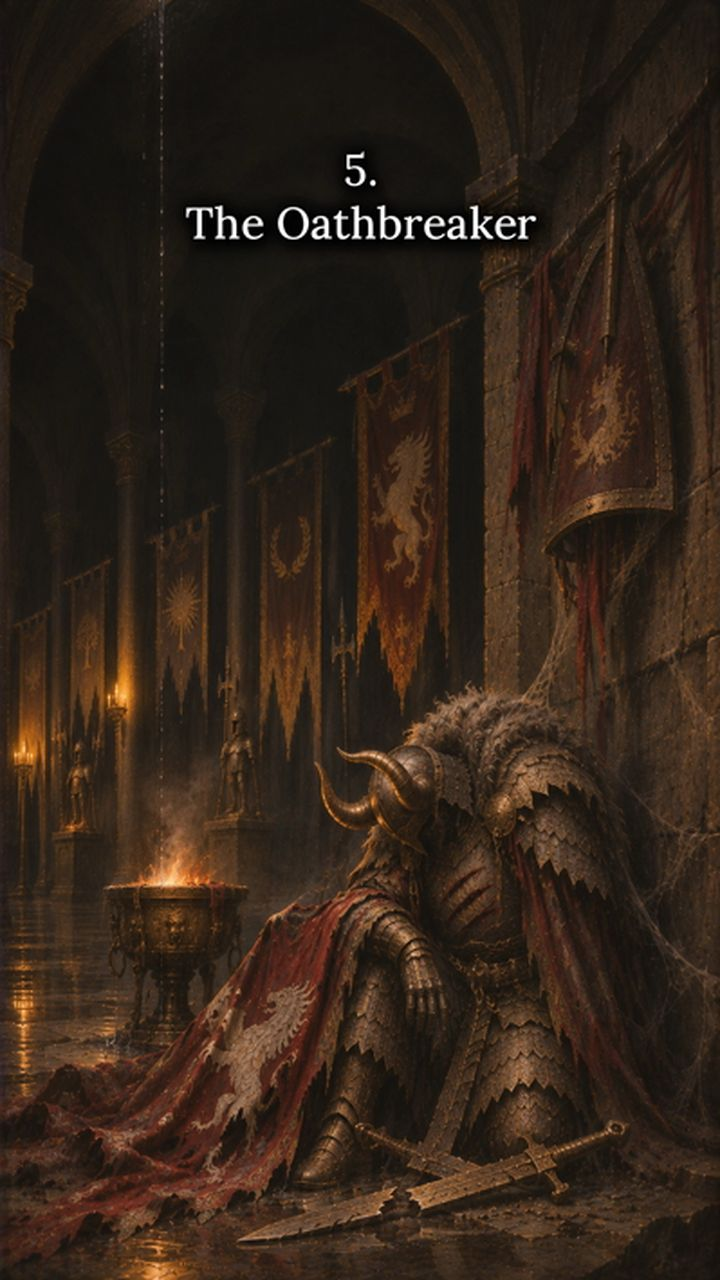
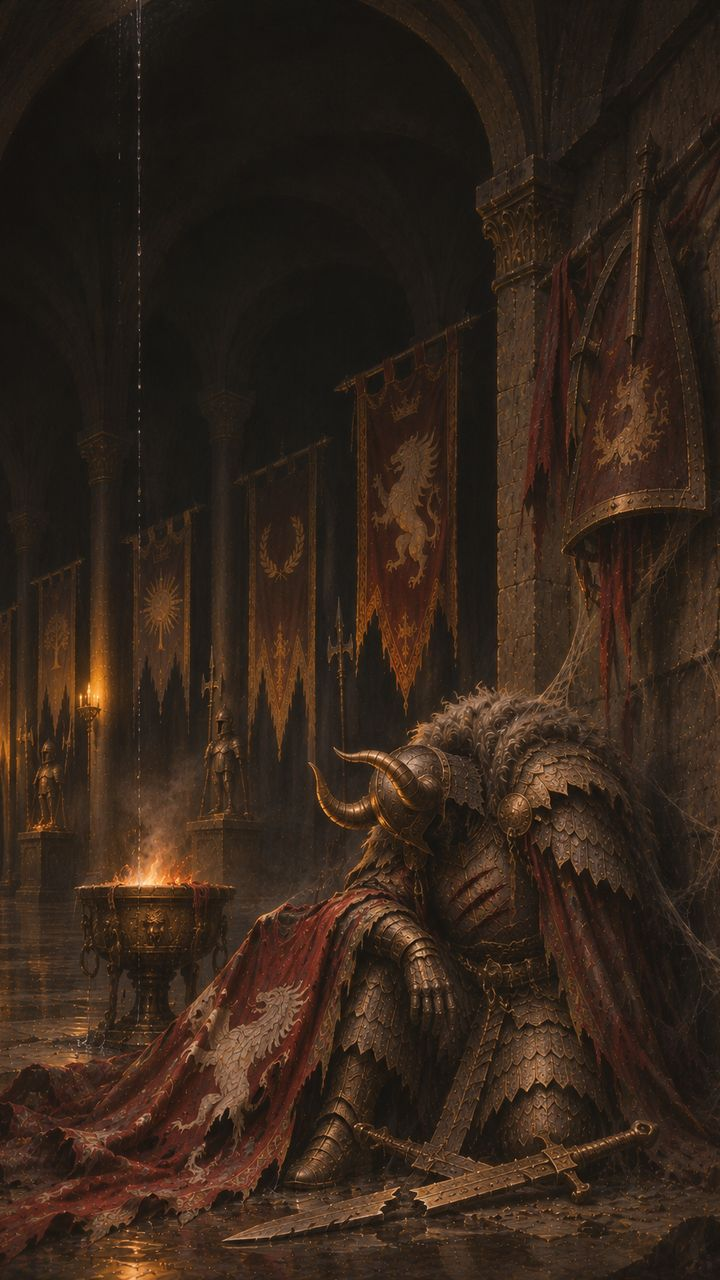
Retire Hollowmere; tree-to-tale transition (medallion lifts, golden vines grow, tale opens); remove last burned-in titles
Claude-Session: https://claude.ai/code/session_019SjQo4uPxatQMjpTgJHSEd

diff --git a/index.html b/index.html
@@ -292,6 +292,21 @@ button.pic:hover{transform:translateY(-3px);box-shadow:0 14px 30px rgba(0,0,0,.7
 .lb-next{right:10px;top:50%;transform:translateY(-50%)}
 .lb-x:hover,.lb-nav:hover{border-color:var(--gilt)}
 @media (max-width:720px){.lb{padding:56px 8px 16px}.lb-nav{top:auto;bottom:14px;transform:none}.lb-prev{left:calc(50% - 56px)}.lb-next{right:calc(50% - 56px)}.lb-fig img{max-height:calc(100vh - 170px)}}
+
+/* ---------- tree -> tale transition: the medallion lifts off the branch, golden roots grow out of it, the tale opens ---------- */
+.tx{position:fixed;inset:0;z-index:110;pointer-events:auto;overflow:hidden}
+.tx[hidden]{display:none}
+.tx .veil{position:absolute;inset:0;background:radial-gradient(circle at 50% 46%,color-mix(in srgb,var(--acc) 26%,#120c08) 0%,#0b0705 55%,#050302 100%);opacity:0}
+.tx svg.vines{position:absolute;inset:0;width:100%;height:100%;overflow:visible;filter:drop-shadow(0 0 3px color-mix(in srgb,var(--gilt-hi) 70%,transparent)) drop-shadow(0 0 10px var(--acc))}
+.tx svg.vines path{fill:none;stroke-linecap:round}
+.tx .disc{position:absolute;border-radius:50%;overflow:hidden;padding:5px;background:conic-gradient(from 200deg,var(--acc),var(--gilt-hi),var(--acc),#5b3d16,var(--acc));
+  box-shadow:0 0 0 1px rgba(0,0,0,.6),0 0 60px color-mix(in srgb,var(--acc) 60%,transparent),0 20px 50px rgba(0,0,0,.8)}
+.tx .disc img{width:100%;height:100%;border-radius:50%;object-fit:cover;object-position:50% 68%;border:2px solid #0d0805}
+.tx .cap{position:absolute;left:0;right:0;text-align:center;opacity:0;padding:0 20px}
+.tx .cap .k{font-family:var(--f-title);font-size:13px;letter-spacing:.42em;text-transform:uppercase;color:var(--acc)}
+.tx .cap .t{font-family:var(--f-display);font-weight:900;font-size:clamp(28px,6vw,54px);line-height:1.05;margin-top:8px;
+  background:linear-gradient(180deg,var(--gilt-hi) 10%,var(--gilt) 60%,#8a6526);-webkit-background-clip:text;background-clip:text;color:transparent;filter:drop-shadow(0 2px 0 rgba(0,0,0,.6))}
+.tx .spark{position:absolute;width:4px;height:4px;border-radius:50%;background:var(--gilt-hi);box-shadow:0 0 8px var(--gilt-hi),0 0 16px var(--acc)}
 </style>
 </head><body>
 
@@ -300,6 +315,7 @@ button.pic:hover{transform:translateY(-3px);box-shadow:0 14px 30px rgba(0,0,0,.7
 <div id="bd" class="backdrop" hidden aria-hidden="true"></div>
 <div id="band" class="owner-band" hidden>Owner preview — sealed tales are open to you only</div>
 <div id="app" class="wrap"></div>
+<div id="tx" class="tx" hidden aria-hidden="true"></div>
 <div id="lb" class="lb" hidden role="dialog" aria-modal="true" aria-label="Enlarged image">
   <button type="button" class="lb-x" data-lb="close" aria-label="Close">✕</button>
   <button type="button" class="lb-nav lb-prev" data-lb="prev" aria-label="Previous">‹</button>
@@ -329,7 +345,9 @@ button.pic:hover{transform:translateY(-3px);box-shadow:0 14px 30px rgba(0,0,0,.7
 /* ===== One-line publish switch: tales listed here are open to everyone. ===== */
 /* Tales open to everyone, in the order they were posted on Instagram. The tree grows in this order and numbers tales by it.
    Tales not listed are hidden from the public (the owner sees them at the top as drafts). */
-const POSTED = [1,2,4,8,9,10,5,3,13,11,12,6,15,17,7,20,22,23];
+const POSTED = [1,2,4,8,9,10,5,3,13,11,12,6,15,7,20,22,23];
+/* Never shown anywhere (tests, retired). */
+const HIDDEN = [17];
 
 const IG = "https://www.instagram.com/oldbladesociety/";
 const ACC = {1:"#c9a14a",2:"#d0603a",3:"#d8b45a",4:"#8fa37a",5:"#b2453a",6:"#c0703a",7:"#4f9a8a",8:"#c4572e",9:"#b88ac0",10:"#c9a14a",11:"#6fa0c8",12:"#b0503c",13:"#8c6aa8",14:"#d4b48a",15:"#b58a3c",16:"#d6904a",17:"#6aa8a0",18:"#d4a24a",19:"#c87a3a",20:"#c9a14a",21:"#5fb0b0",22:"#e07a3a",23:"#6f9a5a"};
@@ -550,8 +568,8 @@ const S = {
   mine:{},               // "e22" -> branchId
   writing:false, note:""
 };
-const isOpen = n => S.owner || POSTED.includes(n);
-const shown = () => [...POSTED, ...EPS.map(e=>e.n).filter(n=>!POSTED.includes(n))];   /* posted tales, then sealed ones still to come */
+const isOpen = n => !HIDDEN.includes(n) && (S.owner || POSTED.includes(n));
+const shown = () => [...POSTED, ...EPS.map(e=>e.n).filter(n=>!POSTED.includes(n)&&!HIDDEN.includes(n))];   /* posted tales, then sealed ones still to come */
 const dn = n => { const i = shown().indexOf(n); return i<0 ? n : i+1; };   /* display number = place on the tree */
 const draft = n => !POSTED.includes(n);
 /* Each tale continues as a three-part series by default; give a tale parts:4 to show a fourth. */
@@ -788,6 +806,86 @@ document.addEventListener("keydown",ev=>{
   el.addEventListener("touchstart",e=>{x0=e.touches[0].clientX},{passive:true});
   el.addEventListener("touchend",e=>{if(x0===null)return;const dx=e.changedTouches[0].clientX-x0;if(Math.abs(dx)>40)lbShow(LB.i+(dx<0?1:-1));x0=null},{passive:true});})();
 window.addEventListener("hashchange",lbClose);
+
+
+/* ===== tree -> tale transition ===== */
+const REDUCED = matchMedia("(prefers-reduced-motion: reduce)").matches;
+let TX_BUSY = false;
+function rnd(a,b){return a+Math.random()*(b-a)}
+function growVines(svg,cx,cy,r,acc){
+  const NS="http://www.w3.org/2000/svg", paths=[];
+  const reach=Math.hypot(innerWidth,innerHeight)*0.62;
+  const limb=(x,y,ang,len,w,depth,delay)=>{
+    let d=`M${x.toFixed(1)} ${y.toFixed(1)}`, px=x, py=y, a=ang;
+    const segs=4+Math.floor(Math.random()*2), step=len/segs, pts=[];
+    for(let i=0;i<segs;i++){
+      a+=rnd(-.38,.38);
+      const nx=px+Math.cos(a)*step, ny=py+Math.sin(a)*step;
+      const cxp=px+Math.cos(a+rnd(-.6,.6))*step*.6, cyp=py+Math.sin(a+rnd(-.6,.6))*step*.6;
+      d+=` Q${cxp.toFixed(1)} ${cyp.toFixed(1)} ${nx.toFixed(1)} ${ny.toFixed(1)}`; px=nx; py=ny; pts.push([nx,ny,a]);
+    }
+    const p=document.createElementNS(NS,"path");
+    p.setAttribute("d",d); p.setAttribute("stroke-width",w.toFixed(2));
+    p.setAttribute("stroke", depth===0 ? "url(#txg)" : depth===1 ? "#c9a14a" : acc);
+    p.style.opacity = depth===0 ? .95 : depth===1 ? .8 : .65;
+    svg.appendChild(p); paths.push([p,delay,len]);
+    if(depth<2) pts.forEach(([bx,by,ba],i)=>{ if(i>0 && Math.random()<.75)
+      limb(bx,by,ba+(Math.random()<.5?-1:1)*rnd(.45,1.05),len*rnd(.32,.5),w*.55,depth+1,delay+(i/segs)*0.55); });
+  };
+  const N=9;
+  for(let i=0;i<N;i++){
+    const ang=(i/N)*Math.PI*2+rnd(-.2,.2);
+    limb(cx+Math.cos(ang)*r*.92, cy+Math.sin(ang)*r*.92, ang, reach*rnd(.75,1), rnd(3.4,5), 0, rnd(0,.08));
+  }
+  return paths;
+}
+function playTransition(n, fromEl){
+  if (REDUCED || TX_BUSY || !fromEl){ location.hash="#ep-"+n; return; }
+  TX_BUSY = true;
+  const e=BY[n], acc=ACC[n], tx=document.getElementById("tx");
+  const R=fromEl.getBoundingClientRect();
+  const D=Math.min(innerWidth,innerHeight)*0.42, cx=innerWidth/2, cy=innerHeight*0.42;
+  tx.style.setProperty("--acc",acc);
+  tx.innerHTML = `<div class="veil"></div>
+    <svg class="vines"><defs><linearGradient id="txg" x1="0" y1="0" x2="1" y2="1"><stop offset="0" stop-color="#f6e2a4"/><stop offset=".5" stop-color="#c9a14a"/><stop offset="1" stop-color="#8a6526"/></linearGradient></defs></svg>
+    <div class="disc" style="left:${R.left}px;top:${R.top}px;width:${R.width}px;height:${R.height}px"><img src="${img(n,0)}" alt=""></div>
+    <div class="cap" style="top:${cy+D/2+26}px"><div class="k">Tale ${roman(dn(n))}</div><div class="t">${esc(e.t)}</div></div>`;
+  tx.hidden=false;
+  const veil=tx.querySelector(".veil"), disc=tx.querySelector(".disc"), cap=tx.querySelector(".cap"), svg=tx.querySelector("svg");
+  const ease="cubic-bezier(.22,.8,.2,1)";
+  veil.animate([{opacity:0},{opacity:1}],{duration:380,fill:"forwards",easing:"ease-out"});
+  const lift = disc.animate([
+      {left:R.left+"px",top:R.top+"px",width:R.width+"px",height:R.height+"px"},
+      {left:(cx-D/2)+"px",top:(cy-D/2)+"px",width:D+"px",height:D+"px"}],
+    {duration:620,fill:"forwards",easing:ease});
+  let skipped=false; const skip=()=>{skipped=true;};
+  tx.addEventListener("click",skip,{once:true});
+  lift.finished.then(()=>{
+    /* vines grow out of the medallion */
+    growVines(svg,cx,cy,D/2,acc).forEach(([p,delay,len])=>{
+      const L=p.getTotalLength(); p.style.strokeDasharray=L; p.style.strokeDashoffset=L;
+      p.animate([{strokeDashoffset:L},{strokeDashoffset:0}],{duration:780*Math.min(1,len/400)+260,delay:delay*1000,fill:"forwards",easing:"cubic-bezier(.3,.6,.2,1)"});
+    });
+    for(let i=0;i<14;i++){ const sp=document.createElement("i"); sp.className="spark"; tx.appendChild(sp);
+      const a=rnd(0,Math.PI*2), r0=D/2, r1=D/2+rnd(80,260);
+      sp.animate([{left:cx+Math.cos(a)*r0+"px",top:cy+Math.sin(a)*r0+"px",opacity:0},{opacity:1,offset:.3},{left:cx+Math.cos(a)*r1+"px",top:cy+Math.sin(a)*r1+"px",opacity:0}],{duration:rnd(800,1300),delay:rnd(0,300),fill:"forwards",easing:"ease-out"}); }
+    disc.animate([{transform:"scale(1)"},{transform:"scale(1.04)"},{transform:"scale(1)"}],{duration:900,easing:"ease-in-out"});
+    cap.animate([{opacity:0,transform:"translateY(10px)"},{opacity:1,transform:"none"}],{duration:500,delay:150,fill:"forwards",easing:"ease-out"});
+    return new Promise(r=>setTimeout(r, skipped?0:1050));
+  }).then(()=>{
+    location.hash="#ep-"+n;              /* the tale renders beneath the veil */
+    const out=tx.animate([{opacity:1,transform:"scale(1)"},{opacity:0,transform:"scale(1.06)"}],{duration:520,fill:"forwards",easing:"ease-in"});
+    return out.finished;
+  }).then(()=>{ tx.hidden=true; tx.innerHTML=""; tx.getAnimations?.().forEach(a=>a.cancel()); TX_BUSY=false; });
+}
+document.addEventListener("click",ev=>{
+  const a=ev.target.closest(".tree a.med, .tree a.plaque");
+  if(!a || ev.metaKey || ev.ctrlKey || ev.shiftKey) return;
+  const m=/#ep-(\d+)$/.exec(a.getAttribute("href")||""); if(!m) return;
+  ev.preventDefault();
+  const med=a.classList.contains("med") ? a : a.closest(".node")?.querySelector(".med");
+  playTransition(+m[1], med);
+}, true);
 
 /* ===== router (plain #name hashes: #tree, #ep-22, #results) ===== */
 const app = document.getElementById("app"), bd = document.getElementById("bd");
